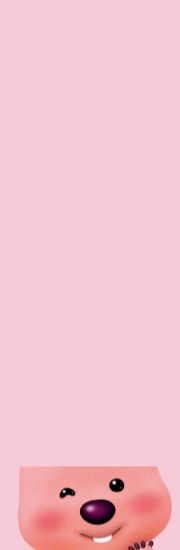
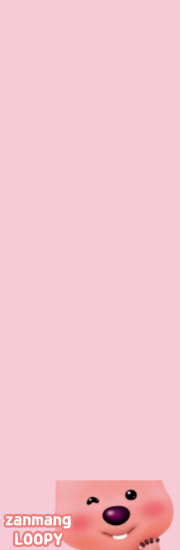
프레임 배경 이미지 추가, 페이지 로고 수정

Changed region(s): [[0.0, 0.8345, 0.9722, 1.0]]

diff --git a/frontend/src/components/Custom/CustomCarousel.jsx b/frontend/src/components/Custom/CustomCarousel.jsx
@@ -13,7 +13,8 @@ import aframe3 from '../../assets/images/frameImg/aframe_3.png';
 import aframe5 from '../../assets/images/frameImg/aframe_5.png';
 import aframe6 from '../../assets/images/frameImg/aframe_6.png';
 import aframe7 from '../../assets/images/frameImg/aframe_7.png';
-import aframe8 from '../../assets/images/frameImg/aframe_8.png';
+// import aframe8 from '../../assets/images/frameImg/aframe_8.png';
+import aframe9 from '../../assets/images/frameImg/aframe_9.png';
 /// ///////////////////////////////////////////////////////////////
 // import bframe1 from '../../assets/images/frameImg/bframe_1.png';
 // import bframe2 from '../../assets/images/frameImg/bframe_2.png';
@@ -21,11 +22,13 @@ import aframe8 from '../../assets/images/frameImg/aframe_8.png';
 import bframe4 from '../../assets/images/frameImg/bframe_4.png';
 import bframe5 from '../../assets/images/frameImg/bframe_5.png';
 import bframe6 from '../../assets/images/frameImg/bframe_6.png';
-import bframe7 from '../../assets/images/frameImg/bframe_7.png';
-import bframe8 from '../../assets/images/frameImg/bframe_8.png';
-import bframe9 from '../../assets/images/frameImg/bframe_9.png';
+// import bframe7 from '../../assets/images/frameImg/bframe_7.png';
+// import bframe8 from '../../assets/images/frameImg/bframe_8.png';
+// import bframe9 from '../../assets/images/frameImg/bframe_9.png';
 // import bframe10 from '../../assets/images/frameImg/bframe_10.png';
-
+import bframe11 from '../../assets/images/frameImg/bframe_11.png';
+import bframe12 from '../../assets/images/frameImg/bframe_12.png';
+import bframe13 from '../../assets/images/frameImg/bframe_13.png';
 // 4~6개 할까 생각중
 const MAX_IMAGES = 6;
 
@@ -37,16 +40,16 @@ function CustomCarousel({ sendData, frameType }) {
     aframe5,
     aframe6,
     aframe7,
-    aframe8,
+    aframe9,
   ];
   const IMAGES_2 = [
     Black,
     bframe4,
     bframe5,
     bframe6,
-    bframe7,
-    bframe8,
-    bframe9,
+    bframe12,
+    bframe13,
+    bframe11,
   ];
 
   const [imgIdx, setImgIdx] = useState(0);
